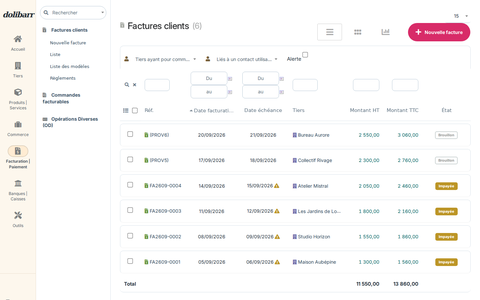
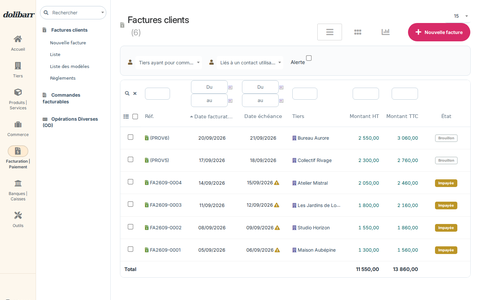
feat: ship Indy 1.3.0 with complete card outlines and mobile fixes
Vendor canonical theme 2de25d522ab3d08644b8e266d5fa41e9d0efd064 and extend CI to verify narrow touch layouts, closed outlines, empty lists, horizontal scrolling and creation forms.

diff --git a/theme/indy/indy.css b/theme/indy/indy.css
@@ -26,7 +26,7 @@
   --indy-nav-border: #eadfcf;
   --indy-success: #00a995;
   --indy-danger: #ad3555;
-  --indy-radius: 10px;
+  --indy-radius: 12px;
   --indy-shadow: none;
   --indy-rail-width: 108px;
   --indy-context-width: 224px;
@@ -358,6 +358,61 @@ table.noborder:not(.nobordernopadding), table.liste {
   border-spacing: 0;
   box-shadow: none;
 }
+/* Eldy draws the sides on the table and the bottom on its last cells.
+ * Removing only the top border leaves open cards. Give each surface one
+ * continuous outline, inside the scroll area, without clipping menus. */
+#id-right table.noborder:not(.nobordernopadding, .paymenttable, .margintable, .tableforcontact, .cal_month),
+#id-right table.liste {
+  border: 1px solid var(--indy-border) !important;
+  border-radius: var(--indy-radius);
+  border-spacing: 0;
+  background: var(--indy-surface);
+  background-clip: padding-box;
+}
+#id-right table.noborder:not(.nobordernopadding, .paymenttable, .margintable, .tableforcontact, .cal_month) > tbody > tr:last-child > :is(td, th),
+#id-right table.liste > tbody > tr:last-child > :is(td, th) { border-bottom: 0; }
+#id-right table.noborder > tbody > tr:first-child > :first-child,
+#id-right table.liste > tbody > tr:first-child > :first-child { border-start-start-radius: 11px; }
+#id-right table.noborder > tbody > tr:first-child > :last-child,
+#id-right table.liste > tbody > tr:first-child > :last-child { border-start-end-radius: 11px; }
+#id-right table.noborder > tbody > tr:last-child > :first-child,
+#id-right table.liste > tbody > tr:last-child > :first-child { border-end-start-radius: 11px; }
+#id-right table.noborder > tbody > tr:last-child > :last-child,
+#id-right table.liste > tbody > tr:last-child > :last-child { border-end-end-radius: 11px; }
+/* Wide tables scroll inside their card. The outline belongs to the visible
+ * wrapper, so its right edge never disappears beyond the scroll viewport. */
+#id-right :is(.div-table-responsive, .div-table-responsive-no-min):has(> table:is(.liste, .noborder):not(.nobordernopadding, .paymenttable, .margintable, .tableforcontact, .cal_month)) {
+  box-sizing: border-box;
+  border: 1px solid var(--indy-border);
+  border-radius: var(--indy-radius);
+  margin-bottom: 20px;
+  background: var(--indy-surface);
+}
+#id-right :is(.div-table-responsive, .div-table-responsive-no-min) > table:is(.liste, .noborder):not(.nobordernopadding, .paymenttable, .margintable, .tableforcontact, .cal_month) {
+  border: 0 !important;
+  margin-bottom: 0;
+}
+#id-right .box.divboxtable:has(> table.boxtable) {
+  box-sizing: border-box;
+  max-width: 100%;
+  overflow-x: auto;
+  border: 1px solid var(--indy-border);
+  border-radius: var(--indy-radius);
+  background: var(--indy-surface);
+}
+#id-right .box.divboxtable > table.boxtable { border: 0 !important; margin-bottom: 0; }
+/* Additional filters are a separate, fully enclosed panel. Native Select2
+ * popovers stay outside it; overflow:hidden would cut off their options. */
+#id-right div.liste_titre_bydiv {
+  box-sizing: border-box;
+  width: 100%;
+  padding: 12px 14px;
+  margin-bottom: 12px;
+  border: 1px solid var(--indy-border);
+  border-radius: var(--indy-radius);
+  background: #fafbfc;
+}
+#id-right div.liste_titre_bydiv .divsearchfield { max-width: 100%; }
 tr.liste_titre, tr.liste_titre th, tr.liste_titre td, .liste_titre {
   background: #fff;
   background-image: none;
@@ -380,16 +435,16 @@ tr.oddeven td, table.border td, table.border th { border-color: var(--indy-borde
 table.tableforfield { table-layout: fixed; }
 table.tableforfield td { overflow-wrap: break-word; }
 table.tableforfield td[class*="titlefield"] { width: 44%; min-width: 0; white-space: normal; }
-table.liste { border-collapse: separate; border-spacing: 0 8px; }
+table.liste { border-collapse: separate; border-spacing: 0; }
 table.liste > tbody > tr.oddeven > td {
   background: #fff;
   padding-block: 12px;
-  border-top: 1px solid var(--indy-border);
+  border-top: 0;
   border-bottom: 1px solid var(--indy-border);
   font-size: 14px;
 }
-table.liste > tbody > tr.oddeven > td:first-child { border-inline-start: 1px solid var(--indy-border); border-start-start-radius: 9px; border-end-start-radius: 9px; }
-table.liste > tbody > tr.oddeven > td:last-child { border-inline-end: 1px solid var(--indy-border); border-start-end-radius: 9px; border-end-end-radius: 9px; }
+table.liste > tbody > tr.oddeven > td:first-child { border-inline-start: 0; }
+table.liste > tbody > tr.oddeven > td:last-child { border-inline-end: 0; }
 table.liste > tbody > tr.oddeven:hover > td { background: #fffcf8; }
 table.noborder > tbody > tr.oddeven > td { padding-block: 12px; }
 tr.liste_total, tr.liste_total td { background: #fff; color: var(--indy-ink); font-weight: 650; }
@@ -407,7 +462,19 @@ td.amount, td.amountneg, td.amountpayment, .amount, .amountneg { font-variant-nu
 .info-box-number { font-family: Georgia, serif; font-size: 32px; font-weight: 600; letter-spacing: -1px; }
 .info-box-text, .boxstatstext { color: var(--indy-muted); font-size: 12px; font-weight: 400; }
 .boxheader, .boxheader td { background: #fff; color: var(--indy-ink); font-weight: 600; border-color: var(--indy-border); }
-.boxheader { padding-block: 14px; border-radius: 9px 9px 0 0; }
+.boxheader { padding-block: 14px; border-radius: 11px 11px 0 0; }
+/* Let widget titles wrap while their native filter, move and close controls
+ * keep their own space. A table cell cannot itself become a flex container. */
+#id-right .box_titre > th { position: relative; padding: 14px 72px 14px 14px; white-space: normal; }
+#id-right .box_titre > th > .tdoverflowmax400 {
+  float: none;
+  max-width: 100%;
+  white-space: normal;
+  overflow: visible;
+  overflow-wrap: anywhere;
+  line-height: 1.5;
+}
+#id-right .box_titre > th > .boxclose { position: absolute; top: 14px; right: 10px; }
 /* Native statuses keep their semantic colors and labels. */
 .badge, [class*="badge-status"] { border-radius: 5px; font-size: 11px; font-weight: 600; }
 .badge { padding: 4px 8px; }
@@ -642,9 +709,10 @@ body.bodylogin { background: var(--indy-nav); }
   body:has(#id-top .tmenudiv) #id-container > .side-nav { top: 50px; height: calc(100dvh - 50px); max-height: calc(100dvh - 50px); }
   #id-right .fichehalfleft, #id-right .fichehalfright { float: none; box-sizing: border-box; width: 100%; padding-inline: 0; }
   #id-right .table-fiche-title, #id-right .table-fiche-title > tbody,
-  #id-right .table-fiche-title > tbody > tr { display: block; width: 100%; }
+  #id-right .table-fiche-title > tbody > tr { display: block; width: 100%; height: auto !important; }
   #id-right .table-fiche-title .col-picto { display: none; }
-  #id-right .table-fiche-title .col-title, #id-right .table-fiche-title .col-right { display: block; width: auto; }
+  #id-right .table-fiche-title .col-title { display: block; width: auto; }
+  #id-right .table-fiche-title .col-right { display: flow-root; width: auto; }
   #id-right .table-fiche-title .col-right { padding-top: 14px; }
 }
 @media screen and (max-width: 1099px) {
@@ -700,9 +768,10 @@ body.bodylogin { background: var(--indy-nav); }
   div.fiche { margin-inline: 10px; max-width: calc(100vw - 20px); box-sizing: border-box; }
   div.titre { font-size: 22px !important; white-space: normal !important; }
   .fiche table.table-fiche-title, .fiche table.table-fiche-title > tbody,
-  .fiche table.table-fiche-title > tbody > tr { display: block; width: 100%; }
+  .fiche table.table-fiche-title > tbody > tr { display: block; width: 100%; height: auto !important; }
   .fiche table.table-fiche-title .col-picto { display: none; }
-  .fiche table.table-fiche-title .col-title, .fiche table.table-fiche-title .col-right { display: block; width: auto; }
+  .fiche table.table-fiche-title .col-title { display: block; width: auto; }
+  .fiche table.table-fiche-title .col-right { display: flow-root; width: auto; }
   .fiche table.table-fiche-title .col-right { padding-top: 14px; }
   .table-fiche-title .pagination, .table-fiche-title .paginationafterarrows {
     display: flex;
@@ -720,6 +789,22 @@ body.bodylogin { background: var(--indy-nav); }
     overflow-x: auto;
   }
   div.tabBar { padding: 12px; }
+  /* Creation forms for invoices and orders still use a desktop two-column
+   * table on phones. Stack only these forms, preserving detail line tables. */
+  :is(form#formtocreate, form[name="crea_commande"]) .tabBar > table.border,
+  :is(form#formtocreate, form[name="crea_commande"]) .tabBar > table.border > tbody { display: block; width: 100%; }
+  :is(form#formtocreate, form[name="crea_commande"]) .tabBar > table.border > tbody > tr { display: flex; flex-wrap: wrap; height: auto !important; }
+  :is(form#formtocreate, form[name="crea_commande"]) .tabBar > table.border > tbody > tr > td {
+    display: block; flex: 1 1 100%; box-sizing: border-box;
+    width: 100% !important; min-width: 0 !important; max-width: 100% !important;
+    height: auto !important; padding: 7px 0; white-space: normal;
+  }
+  :is(form#formtocreate, form[name="crea_commande"]) .tabBar .select2-container {
+    min-width: 0 !important; max-width: calc(100% - 54px) !important;
+  }
+  :is(form#formtocreate, form[name="crea_commande"]) .tabBar textarea { width: 100%; }
+  #id-right .box_titre > th { padding-right: 48px; }
+  #id-right .box_titre > th > .tdoverflowmax400 { max-width: 100% !important; }
   div.tabs a.tab { padding: 9px 12px; }
   .butAction, a.butAction, .butActionDelete, a.butActionDelete { padding: 11px 16px; margin: 5px 3px; }
   .login_table { box-sizing: border-box; width: calc(100vw - 28px); max-width: 410px; padding: 16px 8px; }

diff --git a/tests/indy/browser.py b/tests/indy/browser.py
@@ -9,6 +9,31 @@ password = os.environ['DOLIBARR_TEST_PASSWORD']
 artifacts = Path(os.environ.get('INDY_ARTIFACTS', 'artifacts'))
 artifacts.mkdir(parents=True, exist_ok=True)
 
+card_frames = ('#id-right .box.divboxtable:has(> table.boxtable), '
+               '#id-right :is(.div-table-responsive,.div-table-responsive-no-min)'
+               ':has(> table:is(.liste,.noborder):not(.nobordernopadding,.paymenttable,.margintable,.tableforcontact,.cal_month))')
+
+
+def check_card_frames(page, name):
+    for frame in page.locator(card_frames).all():
+        if frame.is_visible():
+            assert frame.evaluate('''e => {
+                const s = getComputedStyle(e), r = e.getBoundingClientRect();
+                return ['Top','Right','Bottom','Left'].every(side => s['border'+side+'Width'] === '1px'
+                    && s['border'+side+'Style'] === 'solid' && s['border'+side+'Color'] !== s.backgroundColor)
+                    && r.right <= innerWidth + 1 && r.left >= -1;
+            }'''), (name, 'Card outline is open or outside the viewport')
+    # A wrapped, floated list toolbar must reserve its height before the
+    # separate filter panel starts (especially on narrow touch screens).
+    assert page.evaluate('''() => {
+        const panel = document.querySelector('#id-right div.liste_titre_bydiv');
+        if (!panel || !panel.getBoundingClientRect().height) return true;
+        const top = panel.getBoundingClientRect().top;
+        return [...document.querySelectorAll('.table-fiche-title .col-right .pagination')]
+            .every(e => !e.getBoundingClientRect().height || e.getBoundingClientRect().bottom <= top + 1);
+    }'''), (name, 'List actions overlap the filter panel')
+
+
 with sync_playwright() as p:
     browser = p.chromium.launch(executable_path=os.environ.get('PLAYWRIGHT_CHROMIUM_EXECUTABLE'))
     context = browser.new_context(viewport={'width': 1440, 'height': 1000}, locale='fr-FR')
@@ -47,6 +72,9 @@ with sync_playwright() as p:
 
     routes = {
         'dashboard': '/',
+        'thirdparty-space': '/societe/index.php?mainmenu=companies',
+        'commerce-space': '/comm/index.php?mainmenu=commercial',
+        'billing-space': '/compta/index.php?mainmenu=billing',
         'clients': '/societe/list.php?mainmenu=companies',
         'invoices': '/compta/facture/list.php?mainmenu=billing',
         'invoice-card': '/compta/facture/card.php?facid=1',
@@ -125,6 +153,9 @@ with sync_playwright() as p:
         for placeholder in page.locator('.select2-selection__rendered .placeholder').all():
             if placeholder.is_visible():
                 assert placeholder.evaluate('e => getComputedStyle(e).opacity') == '1', (name, 'Placeholder is faded twice')
+        check_card_frames(page, name)
+        if name in ('dashboard', 'thirdparty-space', 'clients', 'invoices'):
+            assert page.locator(card_frames).count() > 0, (name, 'Expected enclosed cards')
         page.screenshot(path=str(artifacts / f'{name}-desktop.png'), full_page=name != 'modules')
         assert page.evaluate('() => document.documentElement.scrollWidth <= innerWidth'), f'{name}: desktop overflow'
         print(f'PASS page: {name}', flush=True)
@@ -150,6 +181,14 @@ with sync_playwright() as p:
     page.locator('button[name="button_removefilter_x"]').click()
     page.wait_for_load_state('networkidle')
     assert 'Studio Horizon' in page.locator('table.liste').inner_text(), 'Filter reset failed'
+    page.locator('input[name="search_nom"]').fill('NO-MATCH-INDY-REGRESSION')
+    page.locator('button[name="button_search_x"]').click()
+    page.wait_for_load_state('networkidle')
+    assert page.locator('table.liste tr.oddeven').count() == 0, 'Expected an empty filtered list'
+    check_card_frames(page, 'empty-clients')
+    page.screenshot(path=str(artifacts / 'clients-empty-desktop.png'), full_page=True)
+    page.locator('button[name="button_removefilter_x"]').click()
+    page.wait_for_load_state('networkidle')
 
     # Exercise real primary menu links and a short window, where the rail scrolls.
     page.locator('#id-top a[href*="mainmenu=companies"]').first.click()
@@ -175,6 +214,7 @@ with sync_playwright() as p:
         page.goto(base + routes[name], wait_until='networkidle')
         assert page.locator('#id-right').is_visible(), name
         assert page.evaluate('() => document.documentElement.scrollWidth <= innerWidth'), f'{name}: mobile overflow'
+        check_card_frames(page, name)
         if name in ('new-product', 'new-client'):
             assert page.locator('.tabBar').evaluate('''e => [...e.querySelectorAll('input:not([type="hidden"]):not([type="checkbox"]),textarea,.select2-selection')].every(x => {
                 const r = x.getBoundingClientRect(), row = x.closest('tr');
@@ -192,6 +232,50 @@ with sync_playwright() as p:
     assert page.locator('.side-nav').is_visible(), 'Native mobile drawer did not open'
     page.screenshot(path=str(artifacts / 'navigation-mobile.png'), full_page=True)
     toggle.click()
+
+    # Real touch contexts and mobile user agents also exercise Dolibarr's
+    # server-side mobile markup, beyond resizing a desktop browser window.
+    touch_routes = ('dashboard', 'thirdparty-space', 'product-space', 'clients', 'invoices',
+                    'new-client', 'new-product', 'products', 'product-card', 'product-stock',
+                    'new-order', 'new-invoice', 'new-contact', 'new-bank', 'stock-movements',
+                    'warehouses', 'configuration')
+    profiles = [('iphone-small', 'iPhone 13', 320, 740), ('android', 'Pixel 7', 360, 800),
+                ('iphone', 'iPhone 13', 390, 844), ('landscape', 'iPhone 13', 844, 390)]
+    for profile, device, width, height in profiles:
+        options = {**p.devices[device], 'viewport': {'width': width, 'height': height},
+                   'device_scale_factor': 1, 'locale': 'fr-FR', 'storage_state': context.storage_state()}
+        touch_context = browser.new_context(**options)
+        touch_page = touch_context.new_page()
+        touch_page.on('response', lambda response: failures.append(f'{response.status} {response.url}')
+                      if response.status >= 400 and '/theme/indy/' in response.url else None)
+        for name in touch_routes:
+            response = touch_page.goto(base + routes[name], wait_until='networkidle')
+            assert response.status == 200 and touch_page.locator('#id-right').is_visible(), (profile, name)
+            assert touch_page.evaluate('() => document.documentElement.scrollWidth <= innerWidth'), (profile, name, 'Touch viewport overflow')
+            check_card_frames(touch_page, (profile, name))
+            if width <= 600 and name in ('new-order', 'new-invoice'):
+                row = touch_page.locator('.tabBar > table.border > tbody > tr').first
+                cells = row.locator(':scope > td')
+                label, value = cells.nth(0).bounding_box(), cells.nth(1).bounding_box()
+                assert value['y'] >= label['y'] + label['height'] - 1, (profile, name, 'Form fields are not stacked')
+                assert cells.nth(1).bounding_box()['width'] > width * .7, (profile, name, 'Field column is cramped')
+            if name == 'clients':
+                scroller = touch_page.locator('.div-table-responsive:has(> table.liste)').first
+                assert scroller.evaluate('e => e.scrollWidth > e.clientWidth'), (profile, 'Expected horizontal table scrolling')
+                scroller.evaluate('e => e.scrollLeft = e.scrollWidth')
+                assert scroller.evaluate('e => e.scrollLeft > 0'), (profile, 'Cannot scroll to the final list columns')
+                check_card_frames(touch_page, (profile, 'scrolled-list'))
+                scroller.evaluate('e => e.scrollLeft = 0')
+            if name in ('thirdparty-space', 'clients', 'new-invoice', 'new-order'):
+                touch_page.screenshot(path=str(artifacts / f'{name}-{profile}.png'), full_page=True)
+            print(f'PASS touch: {profile} {name}', flush=True)
+        touch_page.goto(base + routes['configuration'], wait_until='networkidle')
+        drawer_toggle = touch_page.locator('#mainmenutd_menu a').first
+        if drawer_toggle.is_visible():
+            drawer_toggle.tap()
+            assert touch_page.locator('.side-nav').is_visible(), (profile, 'Touch drawer did not open')
+            drawer_toggle.tap()
+        touch_context.close()
     page.emulate_media(reduced_motion='reduce')
     assert page.locator('body').evaluate('e => getComputedStyle(e).transitionDuration') in ('1e-05s', '0.00001s')
     page.emulate_media(media='print')
@@ -206,4 +290,4 @@ with sync_playwright() as p:
     page.screenshot(path=str(artifacts / 'login-mobile.png'), full_page=True)
     assert not failures, json.dumps(failures)
     browser.close()
-print(f'PASS: {len(routes)} desktop routes, 12 tablet checks, 13 mobile routes, visible filters, single-layer tabs, contextual menu, dropdowns, native links, print and theme assets.')
+print(f'PASS: {len(routes)} desktop routes, 12 tablet checks, 13 resized mobile routes, {len(profiles) * len(touch_routes)} touch checks, closed card outlines, empty lists, horizontal scrolling, stacked forms, filters, tabs, navigation, print and theme assets.')

diff --git a/theme/indy/theme_descriptor.php b/theme/indy/theme_descriptor.php
@@ -2,7 +2,7 @@
 /* SPDX-License-Identifier: GPL-3.0-or-later */
 $theme_name = 'indy';
 $theme_desc = 'Cream navigation, a white workspace and pink actions inspired by the Indy interface. Community theme by Hallcyn.';
-$theme_version = '1.2.1';
+$theme_version = '1.3.0';
 $theme_author = 'Hallcyn';
 $theme_url = 'https://github.com/hallcyn/dolibarr-indy-theme';
 $theme_min_dolibarr = '24.0.0';

diff --git a/theme/README.md b/theme/README.md
@@ -12,11 +12,13 @@ Le Dockerfile installe les fichiers dans `/var/www/html/theme/indy` et copie les
 
 ## Portée
 
-Version **1.2.1**. Sur ordinateur à partir de 1100 px, le menu principal standard de Dolibarr est présenté dans une colonne crème et les sous-menus dans une colonne dédiée, organisée par groupes et défilante indépendamment du contenu. Les écrans plus petits utilisent la navigation native.
+Version **1.3.0**. Sur ordinateur à partir de 1100 px, le menu principal standard de Dolibarr est présenté dans une colonne crème et les sous-menus dans une colonne dédiée, organisée par groupes et défilante indépendamment du contenu. Les écrans plus petits utilisent la navigation native.
+
+Cartes et listes entièrement encadrées, avec un contour fixe pendant le défilement horizontal ; filtres dans un panneau fermé et titres de widgets pouvant revenir à la ligne. Sur téléphone, les formulaires facture et commande affichent les libellés au-dessus des champs.
 
 Thème clair de l'interface web, prévu pour Dolibarr 24.0.2. Il conserve les fonctions, la navigation et les statuts de Dolibarr. Il ne modifie pas les modèles PDF des factures/devis et n'ajoute pas les services d'Indy. Des modules tiers peuvent nécessiter des ajustements CSS. Aucun logo, visuel propriétaire ni connexion au service Indy n'est inclus ; projet indépendant sans affiliation.
 
-Inter est embarquée et servie par Dolibarr, sous licence [SIL Open Font License](indy/fonts/OFL.txt). La [CI du template](https://github.com/hallcyn/dolibarr/actions/workflows/verify.yml) construit l'image Docker, vérifie l'installation avec MariaDB 11.4, la persistance et les vrais écrans du thème : 44 vues sur ordinateur, 12 cas sur tablette, 13 vues mobiles, filtres visibles, onglets compacts, compte utilisateur et tiroir mobile. Les captures sont dans l'artefact `indy-screenshots` des exécutions. Les [captures locales et résultats détaillés](https://github.com/hallcyn/dolibarr-indy-theme/blob/main/VALIDATION.md) sont aussi dans le dépôt source.
+Inter est embarquée et servie par Dolibarr, sous licence [SIL Open Font License](indy/fonts/OFL.txt). La [CI du template](https://github.com/hallcyn/dolibarr/actions/workflows/verify.yml) construit l'image Docker, vérifie l'installation avec MariaDB 11.4, la persistance et les vrais écrans du thème : 47 vues sur ordinateur, 12 cas sur tablette, 13 vues mobiles redimensionnées et 68 cas tactiles (iPhone/Android émulés dans Chromium, de 320 à 390 px et en paysage), filtres visibles, onglets compacts, compte utilisateur et tiroir mobile. Les captures sont dans l'artefact `indy-screenshots` des exécutions. Les [captures locales et résultats détaillés](https://github.com/hallcyn/dolibarr-indy-theme/blob/main/VALIDATION.md) sont aussi dans le dépôt source.
 
 ## Mettre à jour la copie
 
